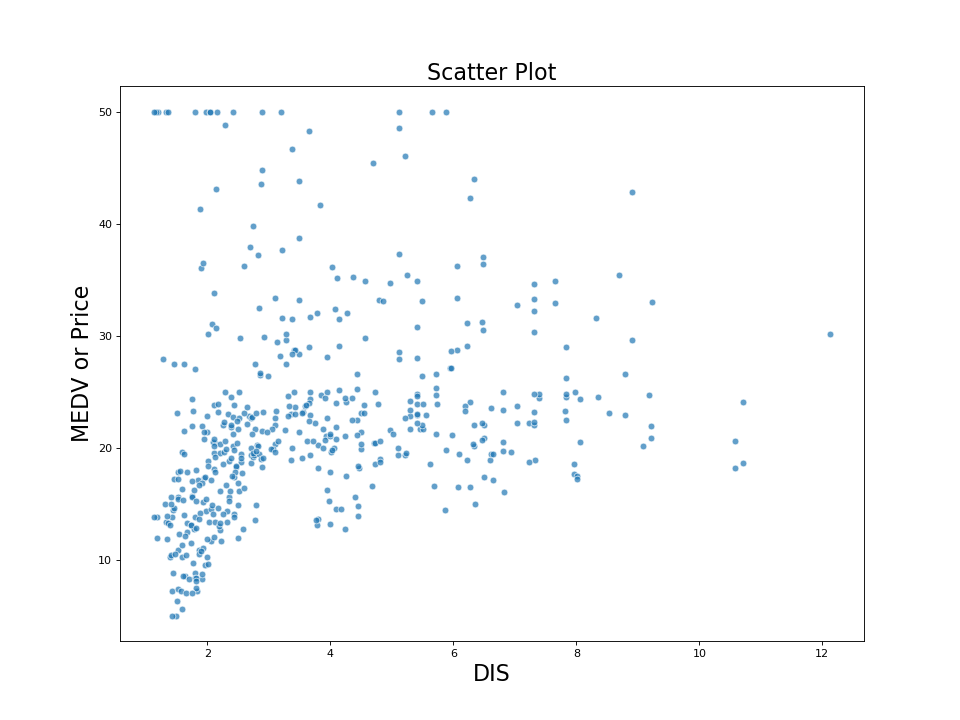
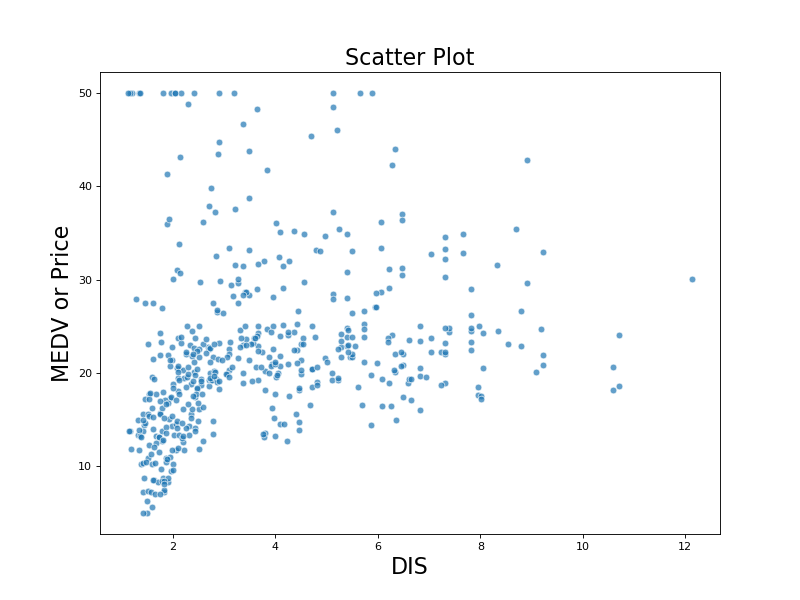
Change plot figure size

diff --git a/boston_housing.py b/boston_housing.py
@@ -54,7 +54,7 @@ if not os.path.exists('plots'):
 # --------------------------------------------------------------
 # Visualize Histogram Plot for 'target' feature that is MEDV
 # Create and save Histogram
-fig = plt.figure(figsize=(12,9))
+fig = plt.figure(figsize=(10,7.5))
 plt.grid(axis='y', alpha=0.5)
 ax = sns.distplot(dataset['MEDV'], bins=30, hist_kws=dict(edgecolor="w", linewidth=2))
 ax.set_title('Histogram', fontsize=20)
@@ -66,7 +66,7 @@ plt.close(fig)
 # -----------------------------------------------------------------
 # Visualize Heatmap of the Dataset
 # Create and save Heatmap
-fig = plt.figure(figsize=(12,9))
+fig = plt.figure(figsize=(10,7.5))
 ax = sns.heatmap(dataset.corr(method = "pearson"), annot=True, cmap='coolwarm', linewidth=0.5)
 ax.set_title('Pearson Heat Map', fontsize=20)
 plt.savefig("plots/" "PearsonHeatMap.png", dpi=70)
@@ -78,7 +78,7 @@ plt.close(fig)
 column = len(dataset.columns)
 
 for x in range(column-1):
-    fig = plt.figure(figsize=(12,9))
+    fig = plt.figure(figsize=(10,7.5))
     ax = sns.scatterplot(dataset.iloc[:,x], dataset['MEDV'], edgecolors='w', alpha=0.7)
     ax.set_title('Scatter Plot', fontsize=20)
     ax.set_xlabel(str(dataset.columns[x]), fontsize=20)
@@ -134,7 +134,7 @@ print(err)
 
 fig = plt.figure(figsize=(12,9))
 ax = sns.regplot(Y_test, Y_pred, marker = 'o', color = 'green')
-ax.set_title('Linear Regrassion: Prices vs Predicted prices', fontsize=20)
+ax.set_title('Linear Regrassion', fontsize=20)
 ax.set_xlabel('MEDV or Price', fontsize=20)
 ax.set_ylabel('Predicted Prices', fontsize=20)
 # Save the Linear Regrassion Plot along with Error value
@@ -173,7 +173,7 @@ print(err)
 # Create Regression Plot for Test and Prediction values
 fig = plt.figure(figsize=(12,9))
 ax = sns.regplot(Y_test, Y_pred, marker = 'o', color = 'blue')
-ax.set_title('KNN Regrassion: Prices vs Predicted prices', fontsize=20)
+ax.set_title('KNN Regrassion', fontsize=20)
 ax.set_xlabel('MEDV or Price', fontsize=20)
 ax.set_ylabel('Predicted Prices', fontsize=20)
 # Save the KNN Regrassion Plot along with Error value
@@ -213,7 +213,7 @@ print(err)
 
 fig = plt.figure(figsize=(12,9))
 ax = sns.regplot(Y_test, Y_pred, marker = 'o', color = 'r')
-ax.set_title('Gradient Boosting Regrassion: Prices vs Predicted prices', fontsize=20)
+ax.set_title('Gradient Boosting Regrassion', fontsize=20)
 ax.set_xlabel('MEDV or Price', fontsize=20)
 ax.set_ylabel('Predicted Prices', fontsize=20)
 # Save the KNN Regrassion Plot along with Error value
